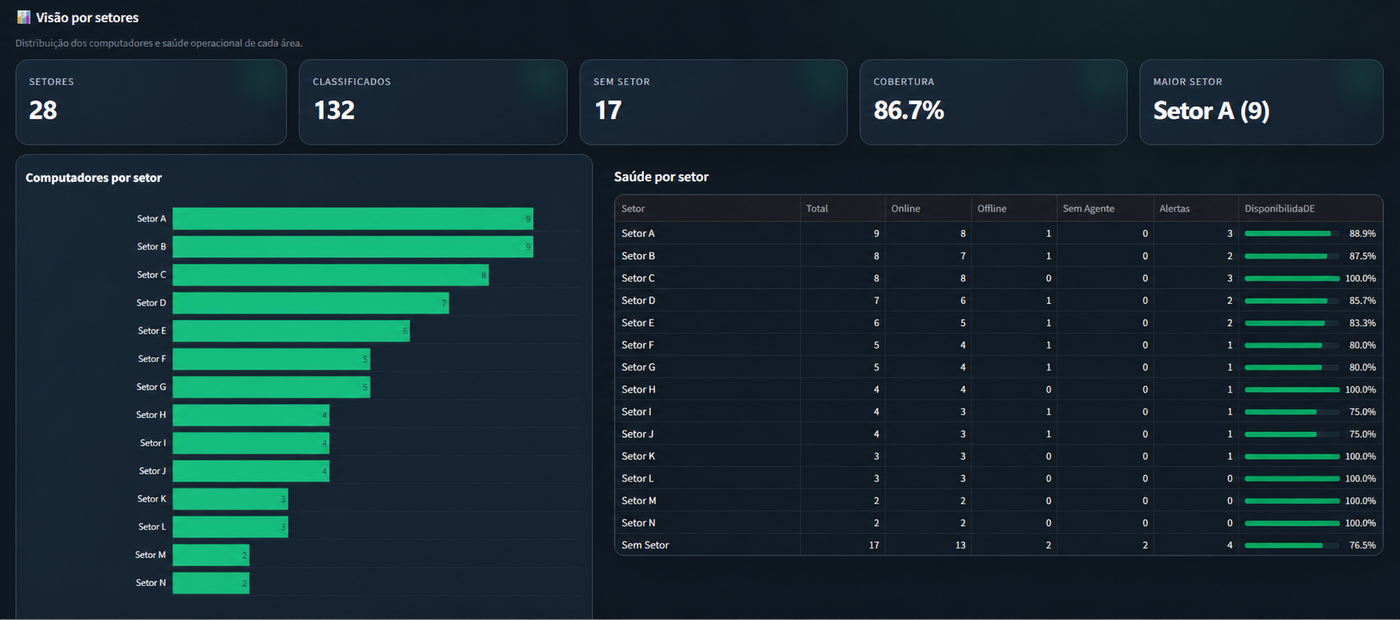
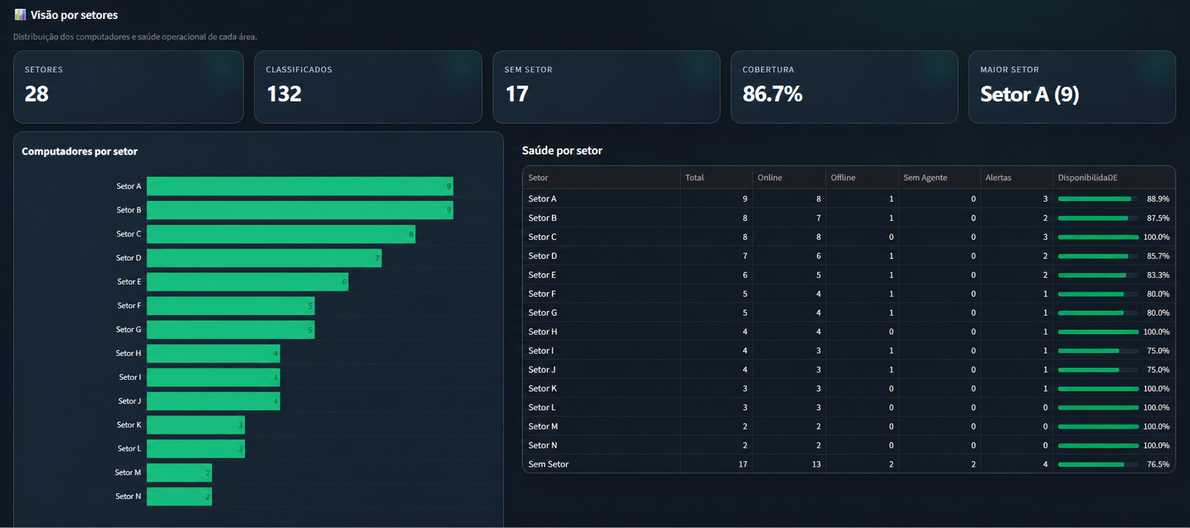
Complete mobile and privacy asset audit

diff --git a/infraos.html b/infraos.html
@@ -36,9 +36,9 @@
     <span class="section-label">FUNCIONALIDADES</span><h2>Da coleta ao diagnóstico <span>em uma única interface.</span></h2>
     <p class="case-section-intro">As capturas abaixo usam dados demonstrativos para comunicar o fluxo do produto sem expor a infraestrutura real.</p>
     <div class="case-feature-list">
-        <article class="case-feature"><div class="case-feature-image"><img src="assets/images/infraos-dashboard.png" alt="Dashboard demonstrativo e sanitizado do InfraOS" width="1400" height="683" loading="lazy" decoding="async"></div><div class="case-feature-content"><span class="case-feature-number">01 / DASHBOARD</span><h3>Visão operacional centralizada</h3><p>O dashboard consolida o estado dos endpoints e destaca situações que pedem atenção.</p><ul><li>Status dos equipamentos monitorados</li><li>Indicadores consolidados</li><li>Filtros por setor e situação</li><li>Alertas operacionais em contexto</li></ul></div></article>
-        <article class="case-feature case-feature-reverse"><div class="case-feature-image"><img src="assets/images/visaoporsetores.png" alt="Visão demonstrativa e sanitizada por setores" width="1400" height="620" loading="lazy" decoding="async"></div><div class="case-feature-content"><span class="case-feature-number">02 / SETORES</span><h3>Infraestrutura organizada por área</h3><p>A visão por setores organiza o inventário e facilita comparar áreas e consultar os equipamentos associados.</p><ul><li>Consolidação por setor</li><li>Comparação entre áreas</li><li>Acesso aos equipamentos vinculados</li><li>Acompanhamento de capacidade</li></ul></div></article>
-        <article class="case-feature"><div class="case-feature-image"><img src="assets/images/detalhasetor.png" alt="Detalhes demonstrativos e sanitizados de um setor" width="1400" height="618" loading="lazy" decoding="async"></div><div class="case-feature-content"><span class="case-feature-number">03 / INVENTÁRIO</span><h3>Detalhamento para investigação técnica</h3><p>O detalhamento aproxima indicadores e inventário para localizar condições que exigem investigação.</p><ul><li>Informações de hardware</li><li>Disponibilidade dos endpoints</li><li>Utilização de recursos</li><li>Consulta por contexto operacional</li></ul></div></article>
+        <article class="case-feature"><div class="case-feature-image"><img src="assets/images/infraos-dashboard.png" alt="Dashboard demonstrativo e sanitizado do InfraOS" width="1429" height="697" loading="lazy" decoding="async"></div><div class="case-feature-content"><span class="case-feature-number">01 / DASHBOARD</span><h3>Visão operacional centralizada</h3><p>O dashboard consolida o estado dos endpoints e destaca situações que pedem atenção.</p><ul><li>Status dos equipamentos monitorados</li><li>Indicadores consolidados</li><li>Filtros por setor e situação</li><li>Alertas operacionais em contexto</li></ul></div></article>
+        <article class="case-feature case-feature-reverse"><div class="case-feature-image"><img src="assets/images/visaoporsetores.png" alt="Visão demonstrativa e sanitizada por setores" width="1190" height="528" loading="lazy" decoding="async"></div><div class="case-feature-content"><span class="case-feature-number">02 / SETORES</span><h3>Infraestrutura organizada por área</h3><p>A visão por setores organiza o inventário e facilita comparar áreas e consultar os equipamentos associados.</p><ul><li>Consolidação por setor</li><li>Comparação entre áreas</li><li>Acesso aos equipamentos vinculados</li><li>Acompanhamento de capacidade</li></ul></div></article>
+        <article class="case-feature"><div class="case-feature-image"><img src="assets/images/detalhasetor.png" alt="Detalhes demonstrativos e sanitizados de um setor" width="1174" height="518" loading="lazy" decoding="async"></div><div class="case-feature-content"><span class="case-feature-number">03 / INVENTÁRIO</span><h3>Detalhamento para investigação técnica</h3><p>O detalhamento aproxima indicadores e inventário para localizar condições que exigem investigação.</p><ul><li>Informações de hardware</li><li>Disponibilidade dos endpoints</li><li>Utilização de recursos</li><li>Consulta por contexto operacional</li></ul></div></article>
     </div>
 </div></section>
 <section class="case-section"><div class="case-container">

diff --git a/index.html b/index.html
@@ -369,8 +369,8 @@
                         src="assets/images/infraos-dashboard.png"
                         alt="Dashboard demonstrativo e sanitizado do InfraOS"
                         class="project-image carousel-image active"
-                        width="1400"
-                        height="683"
+                        width="1429"
+                        height="697"
                         loading="lazy"
                         decoding="async"
                     >
@@ -379,8 +379,8 @@
                         src="assets/images/logininfraos.png"
                         alt="Tela de login demonstrativa e sanitizada do InfraOS"
                         class="project-image carousel-image"
-                        width="1400"
-                        height="696"
+                        width="1779"
+                        height="884"
                         loading="lazy"
                         decoding="async"
                     >
@@ -389,8 +389,8 @@
                         src="assets/images/detalhasetor.png"
                         alt="Detalhes demonstrativos de um setor no InfraOS"
                         class="project-image carousel-image"
-                        width="1400"
-                        height="618"
+                        width="1174"
+                        height="518"
                         loading="lazy"
                         decoding="async"
                     >
@@ -398,8 +398,8 @@
                         src="assets/images/visaoporsetores.png"
                         alt="Visão demonstrativa por setores no InfraOS"
                         class="project-image carousel-image"
-                        width="1400"
-                        height="620"
+                        width="1190"
+                        height="528"
                         loading="lazy"
                         decoding="async"
                     >

diff --git a/css/style.css b/css/style.css
@@ -2918,3 +2918,69 @@ body {
         padding: 24px;
     }
 }
+
+/* Alvos de toque — auditoria mobile final */
+
+.project-btn,
+.logo,
+.case-back,
+.footer-logo,
+.back-to-top {
+    min-height: 44px;
+    display: inline-flex;
+    align-items: center;
+    justify-content: center;
+}
+
+.project-content,
+.project-preview {
+    min-width: 0;
+}
+
+.project-links {
+    flex-wrap: wrap;
+}
+
+.carousel .carousel-dot,
+.carousel .carousel-dot.active {
+    position: relative;
+    width: 44px;
+    min-width: 44px;
+    height: 44px;
+    min-height: 44px;
+    background: transparent;
+}
+
+.carousel .carousel-dot::before {
+    content: "";
+    position: absolute;
+    top: 50%;
+    left: 50%;
+    width: 10px;
+    height: 10px;
+    border-radius: 999px;
+    background: #475569;
+    transform: translate(-50%, -50%);
+}
+
+.carousel .carousel-dot.active::before {
+    width: 26px;
+    background: #00d4ff;
+}
+
+.carousel .carousel-dots {
+    gap: 0;
+}
+
+@media (max-width: 780px) {
+    .nav-links a {
+        min-height: 44px;
+        display: inline-flex;
+        align-items: center;
+        padding-inline: 3px;
+    }
+
+    .nav-links a::after {
+        bottom: 3px;
+    }
+}
